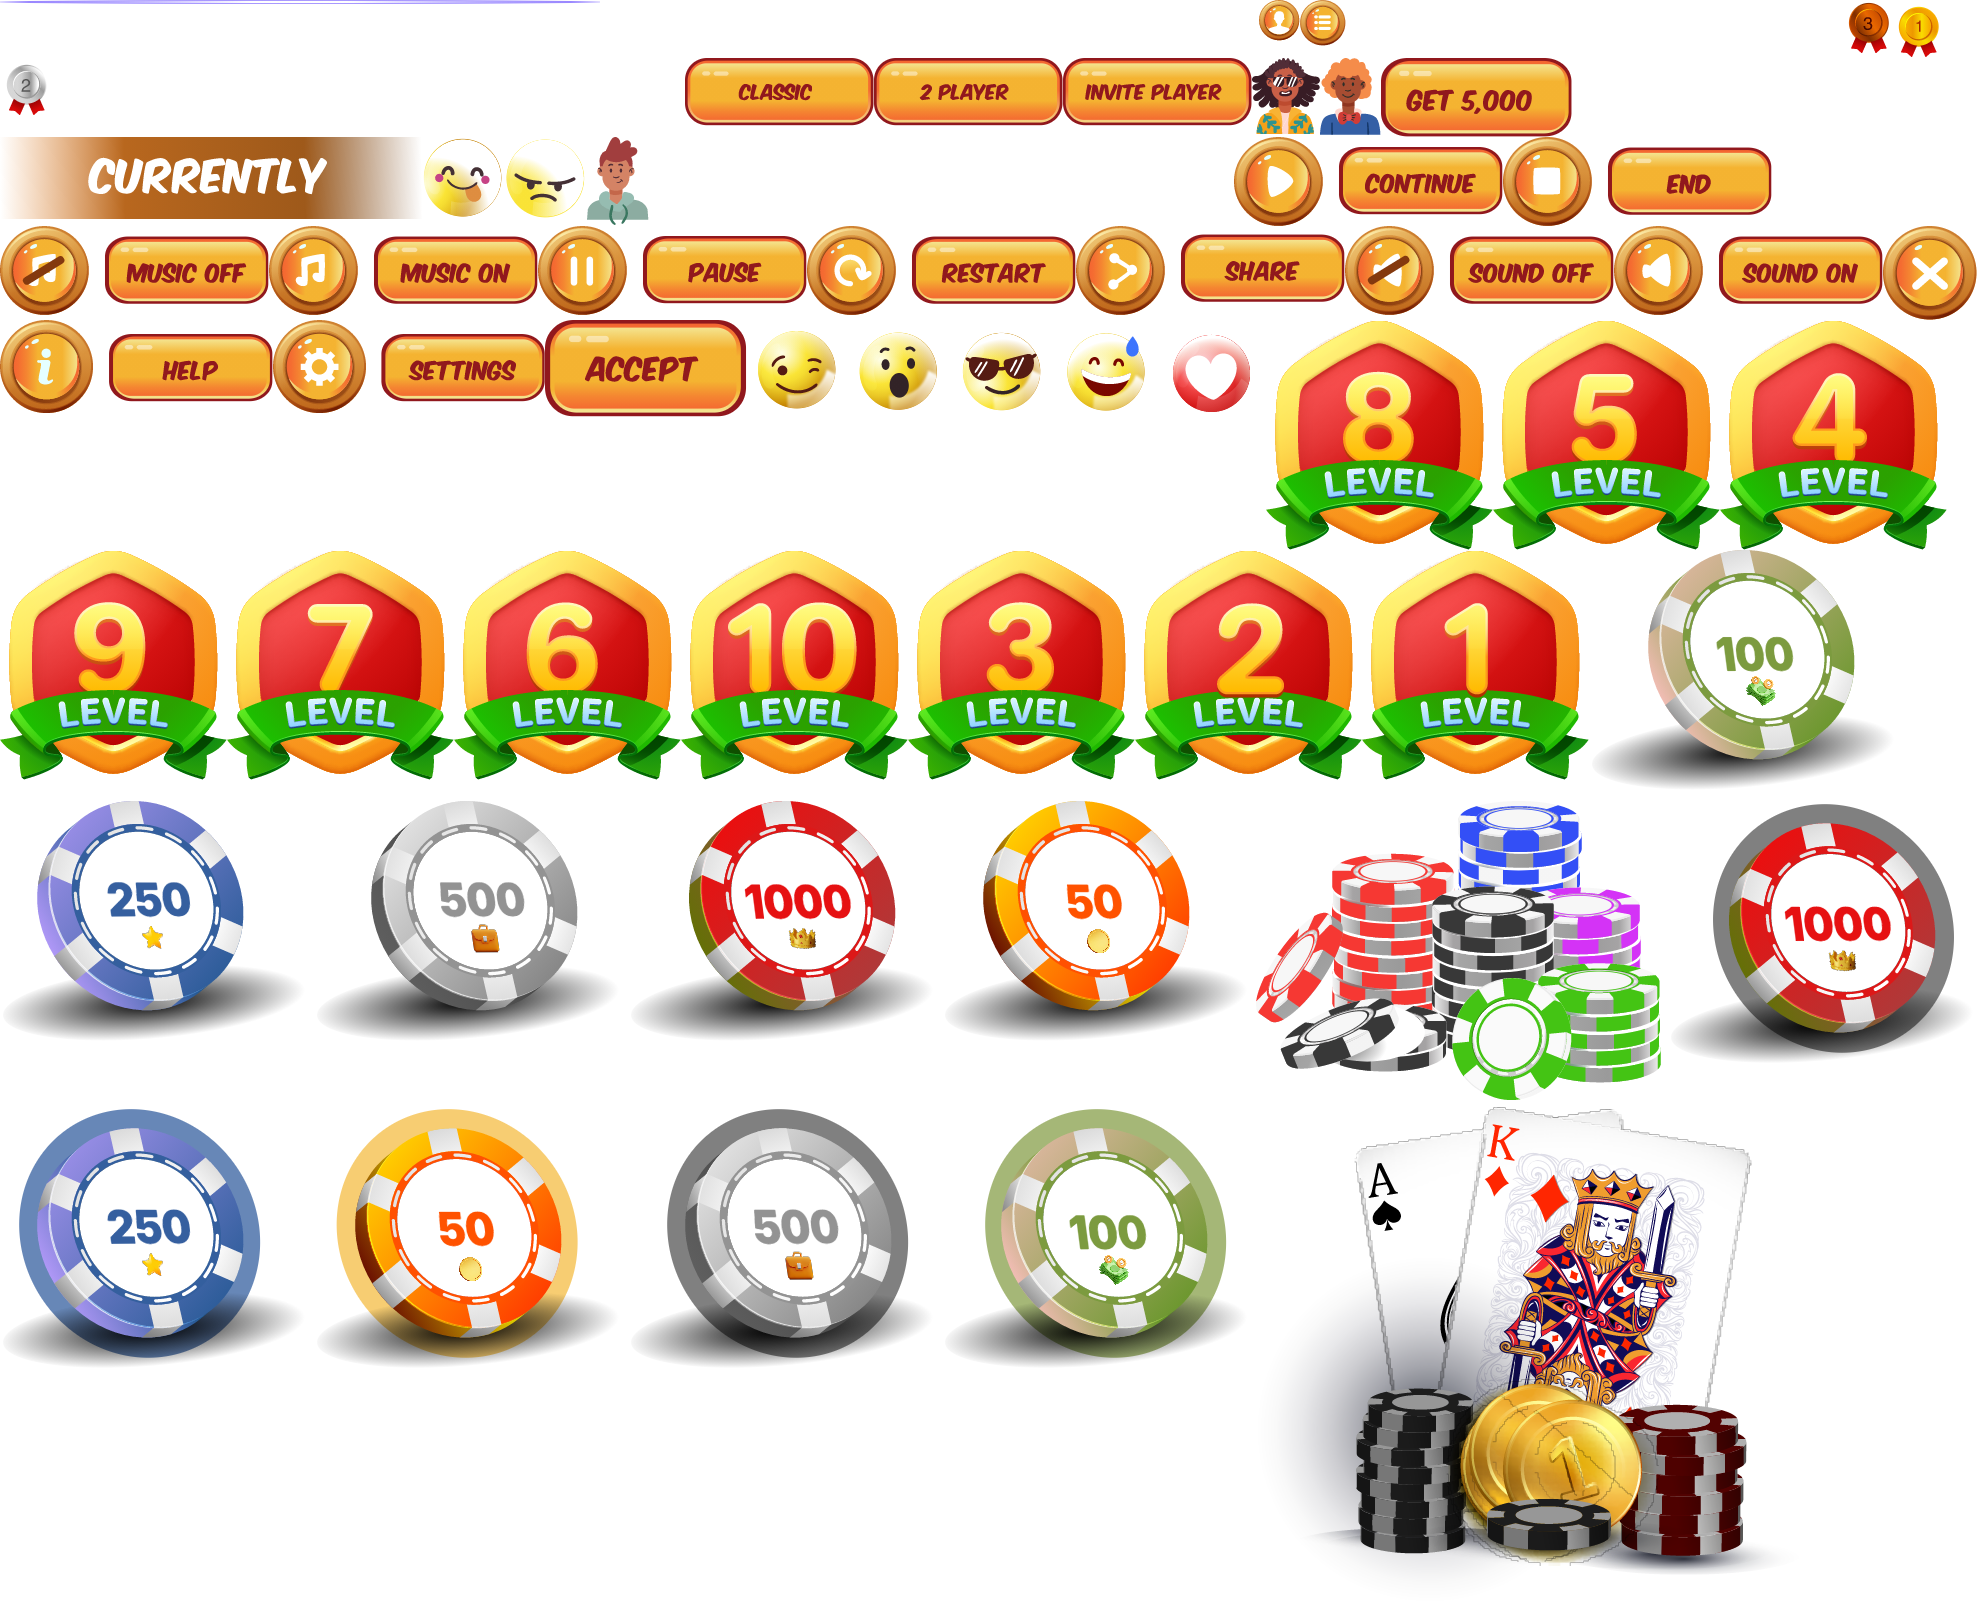
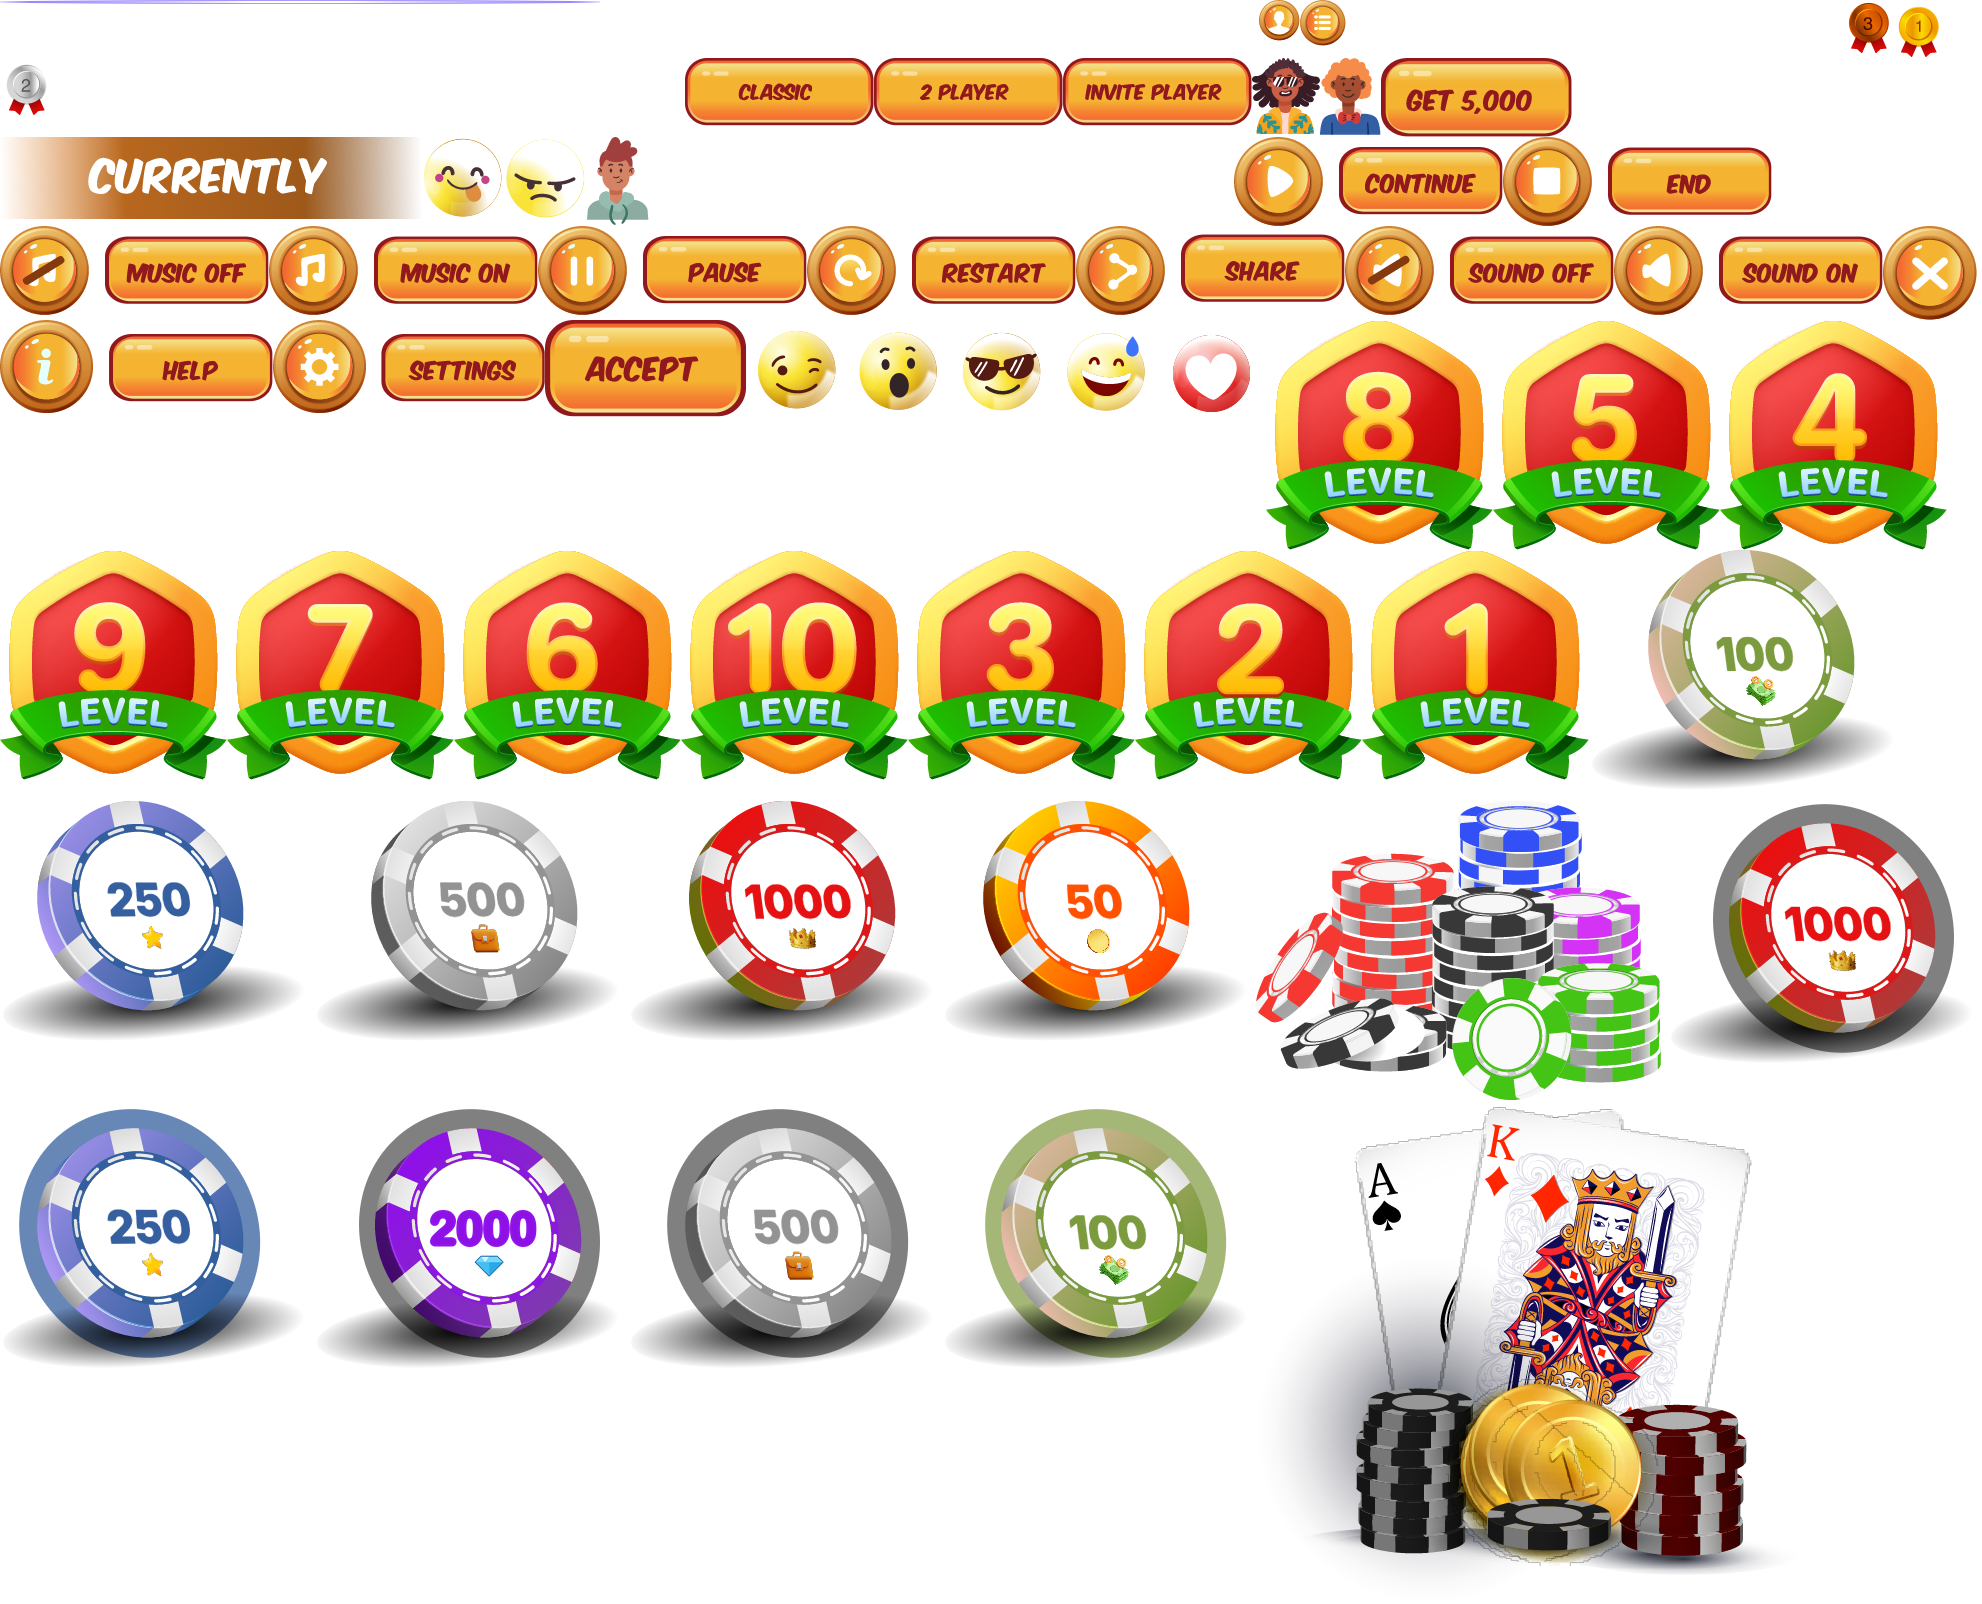
Replace the 50 chip with a 2000 chip
The chips screen now offers 100, 250, 500, 1000 and a new purple
2000 chip (LEGEND / LEAGUE), drawn from the 1000 chip's art into the
old 50 chip's atlas slot.

A saved choice of the removed 50 chip now falls back to the 100 chip
instead of looking up an image that no longer exists.

Needs the backend's matching stake list (100-2000).

Changed region(s): [[0.1539, 0.6858, 0.3078, 0.8728]]

diff --git a/core/src/main/java/io/ngaigame/caasiremos/screens/GameSettingScreen.java b/core/src/main/java/io/ngaigame/caasiremos/screens/GameSettingScreen.java
@@ -53,7 +53,7 @@ public class GameSettingScreen implements Screen, BackHandler {
     private final Stage stage;
     private final ExtendViewport extendViewport;
 
-    private final Image rockieChipImage, streetChipImage, casinoChipImage, stakesChipImage, bossChipImage;
+    private final Image streetChipImage, casinoChipImage, stakesChipImage, bossChipImage, legendChipImage;
     private final Map<String, ChipBadge> chipBadges = new LinkedHashMap<>();
     private final Image backgroundImage;
     private String pendingRequestId; // store request ID when message arrives
@@ -80,14 +80,14 @@ public class GameSettingScreen implements Screen, BackHandler {
 
         // Create images
         // Coin art plus the chip's name in the game fonts; the coins are what you tap
-        for (String key : new String[]{"rockie", "street", "casino", "stakes", "boss"}) {
+        for (String key : ChipBadge.KEYS) {
             chipBadges.put(key, new ChipBadge(assetStore, key, 240));
         }
-        rockieChipImage = chipBadges.get("rockie").coin;
         streetChipImage = chipBadges.get("street").coin;
         casinoChipImage = chipBadges.get("casino").coin;
         stakesChipImage = chipBadges.get("stakes").coin;
         bossChipImage = chipBadges.get("boss").coin;
+        legendChipImage = chipBadges.get("legend").coin;
         backgroundImage = assetStore.blueBackground();
 
         // Set background full screen
@@ -204,11 +204,11 @@ public class GameSettingScreen implements Screen, BackHandler {
     }
 
     private void handleChipClicks() {
-        setupChipClick(rockieChipImage, "rockie");
         setupChipClick(streetChipImage, "street");
         setupChipClick(casinoChipImage, "casino");
         setupChipClick(stakesChipImage, "stakes");
         setupChipClick(bossChipImage, "boss");
+        setupChipClick(legendChipImage, "legend");
     }
 
     private void setupChipClick(Image chipImage, String chipName) {
@@ -231,13 +231,7 @@ public class GameSettingScreen implements Screen, BackHandler {
                 highlightSelectedChip();
 
                 // Set bet amount based on selected chip
-                switch (chipName) {
-                    case "rockie" -> setBetAmount(50);
-                    case "street" -> setBetAmount(100);
-                    case "casino" -> setBetAmount(250);
-                    case "stakes" -> setBetAmount(500);
-                    case "boss" -> setBetAmount(1000);
-                }
+                setBetAmount(ChipBadge.amountOf(chipName));
 
                 // Navigate to OnlinePlayersScreen
                 ((MainBlackJack) game).pushScreen(new OnlinePlayersScreen(
@@ -248,15 +242,14 @@ public class GameSettingScreen implements Screen, BackHandler {
     }
 
     private void highlightSelectedChip() {
-        Preferences prefs = Gdx.app.getPreferences(GamePoint.GAME_PREFS);
-        String selectedChip = prefs.getString("selected_chip", "rockie");
+        String selectedChip = ChipBadge.selectedKey();
 
         for (Map.Entry<String, ChipBadge> badge : chipBadges.entrySet()) {
             badge.getValue().setSelected(badge.getKey().equals(selectedChip));
         }
 
         // Reset all chips
-        Image[] allChips = {rockieChipImage, streetChipImage, casinoChipImage, stakesChipImage, bossChipImage};
+        Image[] allChips = {streetChipImage, casinoChipImage, stakesChipImage, bossChipImage, legendChipImage};
         for (Image chip : allChips) {
             chip.clearActions();
             chip.setColor(Color.WHITE); // Reset tint
@@ -265,12 +258,11 @@ public class GameSettingScreen implements Screen, BackHandler {
 
         // Highlight the selected one
         Image selectedImage = switch (selectedChip) {
-            case "rockie" -> rockieChipImage;
-            case "street" -> streetChipImage;
             case "casino" -> casinoChipImage;
             case "stakes" -> stakesChipImage;
             case "boss" -> bossChipImage;
-            default -> rockieChipImage;
+            case "legend" -> legendChipImage;
+            default -> streetChipImage;
         };
 
         selectedImage.setColor(Color.GOLD);

diff --git a/core/src/main/java/io/ngaigame/caasiremos/utils/ChipBadge.java b/core/src/main/java/io/ngaigame/caasiremos/utils/ChipBadge.java
@@ -1,5 +1,6 @@
 package io.ngaigame.caasiremos.utils;
 
+import com.badlogic.gdx.Gdx;
 import com.badlogic.gdx.graphics.Color;
 import com.badlogic.gdx.graphics.g2d.TextureRegion;
 import com.badlogic.gdx.scenes.scene2d.ui.Image;
@@ -7,9 +8,10 @@ import com.badlogic.gdx.scenes.scene2d.ui.Label;
 import com.badlogic.gdx.scenes.scene2d.ui.Table;
 
 import io.ngaigame.caasiremos.AssetStore;
+import io.ngaigame.caasiremos.points.GamePoint;
 
 /**
- * A stake chip with its name underneath ("ROOKIE / RUMBLE"). The chip art has the name painted
+ * A stake chip with its name underneath ("STREET / HUSTLE"). The chip art has the name painted
  * below the coin; we only use the coin part and draw the name with the game fonts.
  */
 public class ChipBadge extends Table {
@@ -51,35 +53,62 @@ public class ChipBadge extends Table {
     }
 
     /**
-     * rockie / street / casino / stakes / boss for a stake amount.
+     * The chips players can pick, smallest first. Must match the server's stakes.
+     */
+    public static final String[] KEYS = {"street", "casino", "stakes", "boss", "legend"};
+
+    /**
+     * street / casino / stakes / boss / legend for a stake amount.
      */
     public static String keyForAmount(int amount) {
         return switch (amount) {
-            case 100 -> "street";
             case 250 -> "casino";
             case 500 -> "stakes";
             case 1000 -> "boss";
-            default -> "rockie";
+            case 2000 -> "legend";
+            default -> "street";
         };
+    }
+
+    public static int amountOf(String key) {
+        return switch (key) {
+            case "casino" -> 250;
+            case "stakes" -> 500;
+            case "boss" -> 1000;
+            case "legend" -> 2000;
+            default -> 100;
+        };
+    }
+
+    /**
+     * The chip saved as the player's choice; one that no longer exists (the old 50 "rockie")
+     * becomes the smallest chip.
+     */
+    public static String selectedKey() {
+        String saved = Gdx.app.getPreferences(GamePoint.GAME_PREFS).getString("selected_chip", KEYS[0]);
+        for (String key : KEYS) {
+            if (key.equals(saved)) return key;
+        }
+        return KEYS[0];
     }
 
     private static String nameOf(String key) {
         return switch (key) {
-            case "street" -> "STREET";
             case "casino" -> "CASINO";
             case "stakes" -> "STAKES";
             case "boss" -> "BOSS";
-            default -> "ROOKIE";
+            case "legend" -> "LEGEND";
+            default -> "STREET";
         };
     }
 
     private static String taglineOf(String key) {
         return switch (key) {
-            case "street" -> "HUSTLE";
             case "casino" -> "CRAWL";
             case "stakes" -> "HYPE";
             case "boss" -> "BENCH";
-            default -> "RUMBLE";
+            case "legend" -> "LEAGUE";
+            default -> "HUSTLE";
         };
     }
 }

diff --git a/core/src/main/java/io/ngaigame/caasiremos/screens/OnlinePlayersScreen.java b/core/src/main/java/io/ngaigame/caasiremos/screens/OnlinePlayersScreen.java
@@ -5,7 +5,6 @@ import static io.ngaigame.caasiremos.utils.Util.startCountdown;
 import com.badlogic.gdx.Game;
 import com.badlogic.gdx.Gdx;
 import com.badlogic.gdx.Input;
-import com.badlogic.gdx.Preferences;
 import com.badlogic.gdx.Screen;
 import com.badlogic.gdx.graphics.Color;
 import com.badlogic.gdx.graphics.GL20;
@@ -124,8 +123,7 @@ public class OnlinePlayersScreen implements Screen, BackHandler {
         leaderboardWrapper.add(GameText.title(assetStore, "LEADERBOARD")).padBottom(20).row();
         leaderboardWrapper.add(leaderboardScroll).width(screenWidth * 0.4f).top();
 
-        Preferences prefs = Gdx.app.getPreferences(GamePoint.GAME_PREFS);
-        String selectedChip = prefs.getString("selected_chip", "rockie");
+        String selectedChip = ChipBadge.selectedKey();
         Table centerTable = new Table();
         centerTable.add(new ChipBadge(assetStore, selectedChip, 330)).row();
         balanceLabel = new Label(GamePoint.POINTS + new GamePoint().getPoints(), skin);
